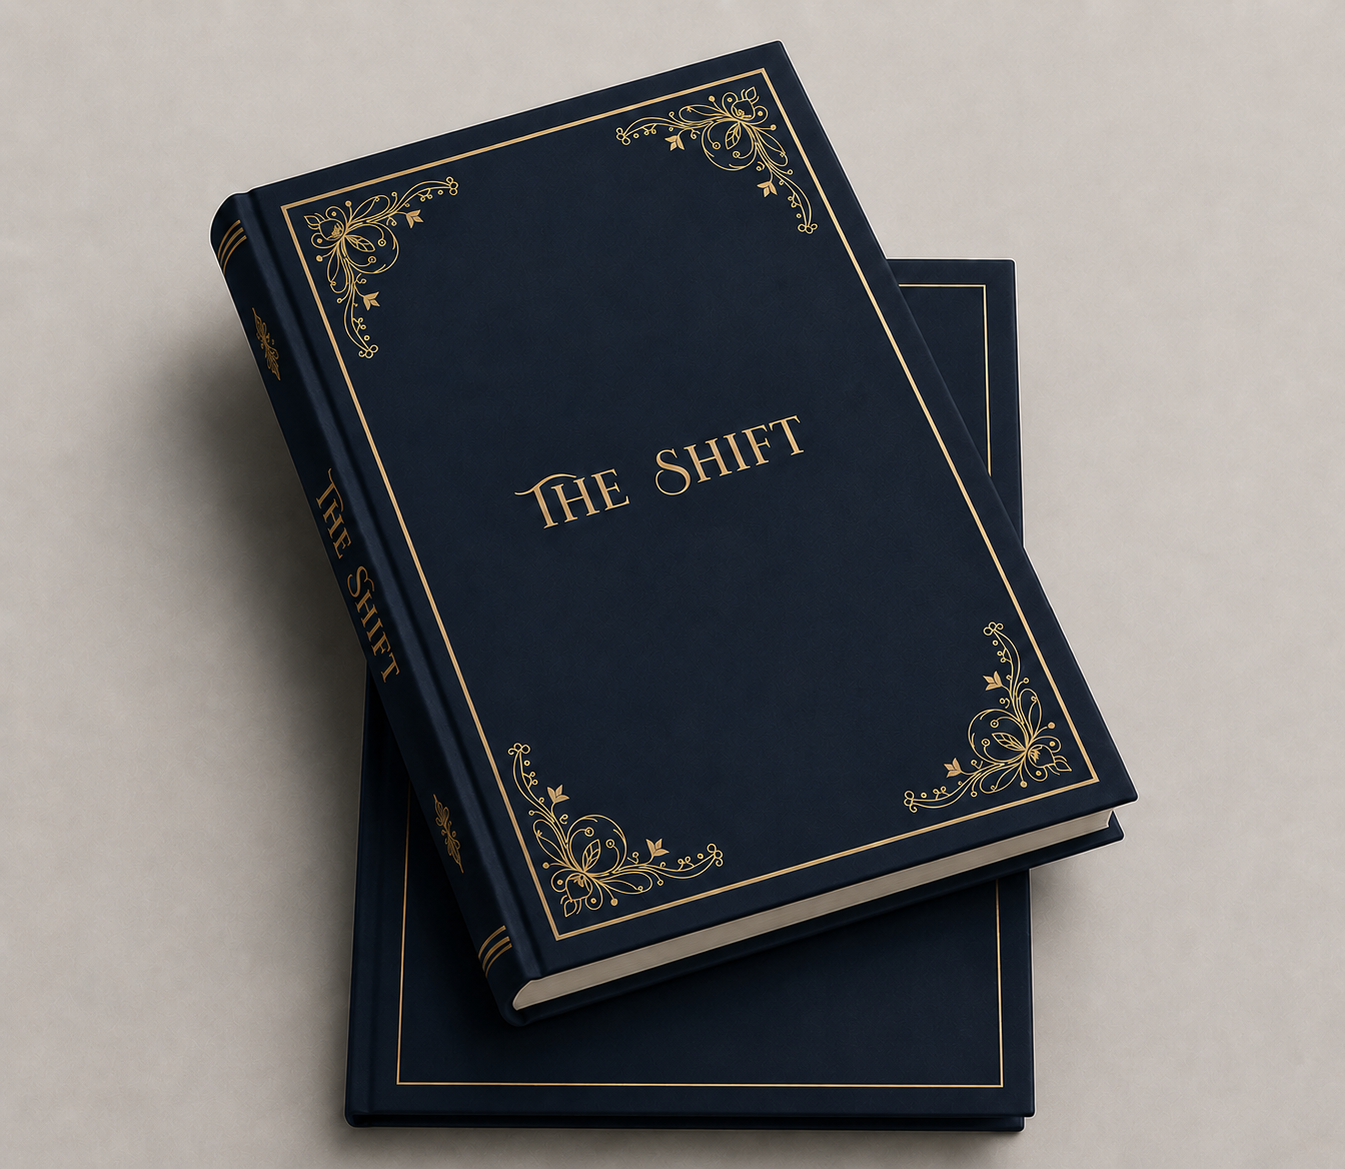
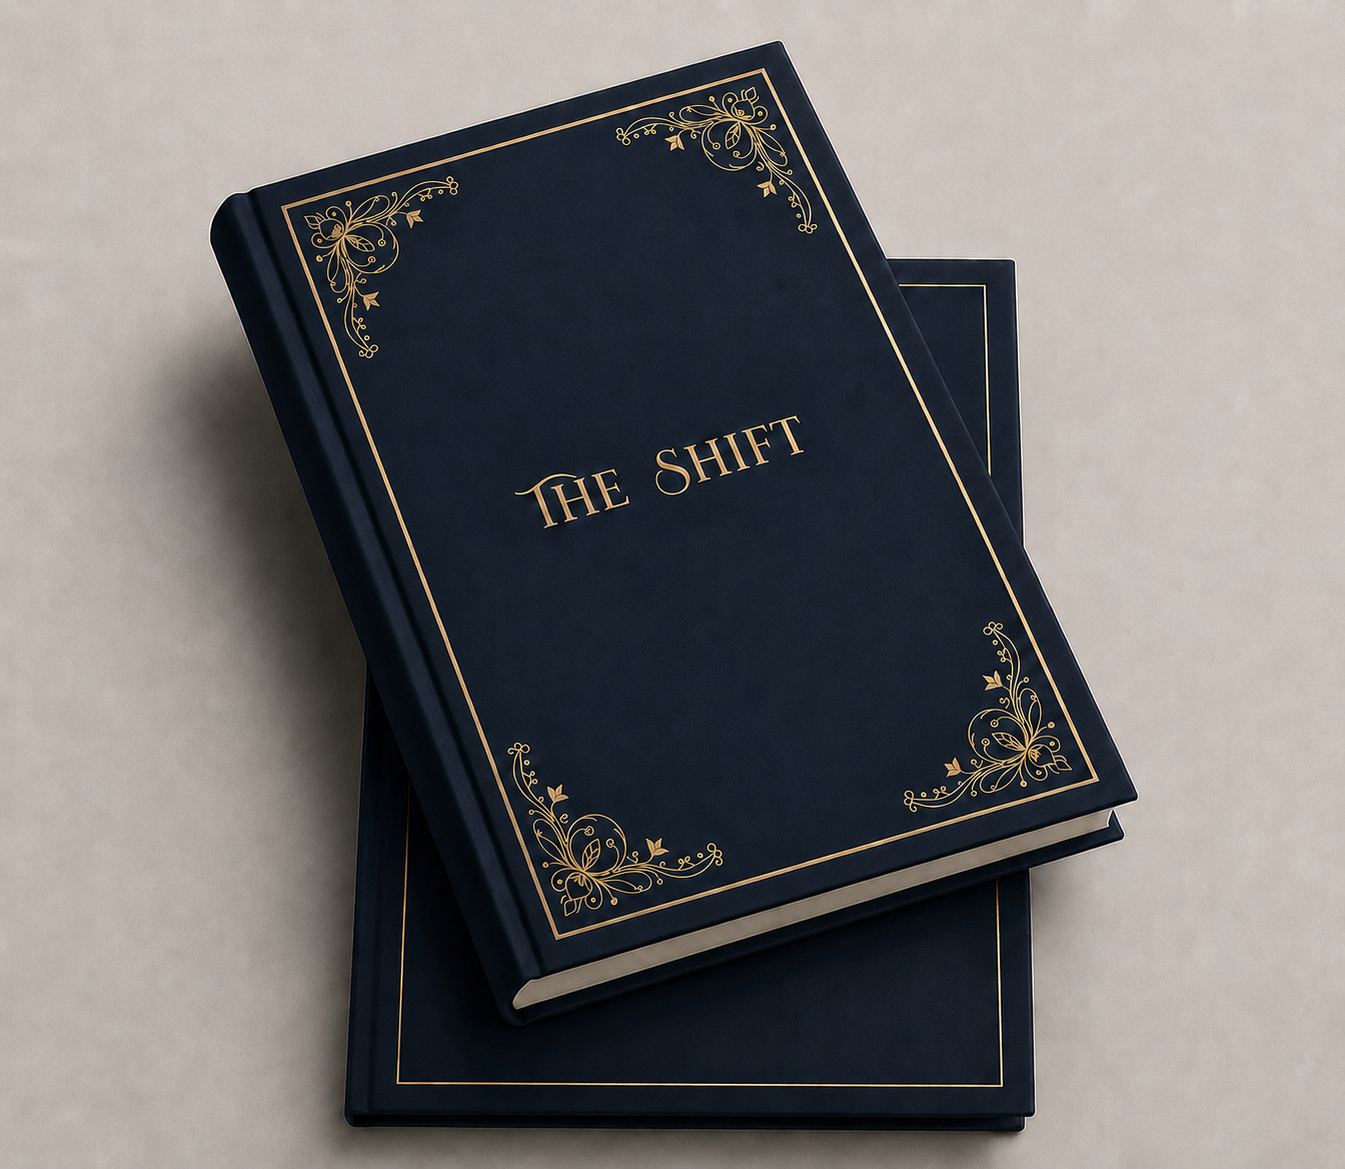
updated the story

diff --git a/js/main.js b/js/main.js
@@ -25,7 +25,7 @@ const PRODUCTS = {
       "Whether you're building habits, juggling roles, or searching for balance, The Shift helps you stay steady without losing yourself in the rush.",
     ],
     features: [
-      'Total Pages: 120 pages for structured, consistent planning.',
+      'Total Pages: 175 pages for structured, consistent planning.',
       'Paper: 100 GSM smooth, bleed-resistant pages suitable for most pens.',
       'Cover: Hardback cover for durability, stability, and a luxurious hand-feel.',
       'Size: 5.8 x 8.3 inches for easy carrying and desk use.',
@@ -56,7 +56,7 @@ const PRODUCTS = {
       "With vision, daily, weekly, and yearly reflection pages, it becomes a companion on your journey back to yourself.",
     ],
     features: [
-      'Pages: 119 pages designed for gentle, thoughtful journaling.',
+      'Pages: 169 pages designed for gentle, thoughtful journaling.',
       'Paper: 100 GSM premium inner pages for a smooth, satisfying writing experience.',
       'Cover: Hardback cover for durability, stability, and a luxurious hand-feel.',
       'Size: 5.8 x 8.3 inches — ideal for desk, bedside, or daily bag.',